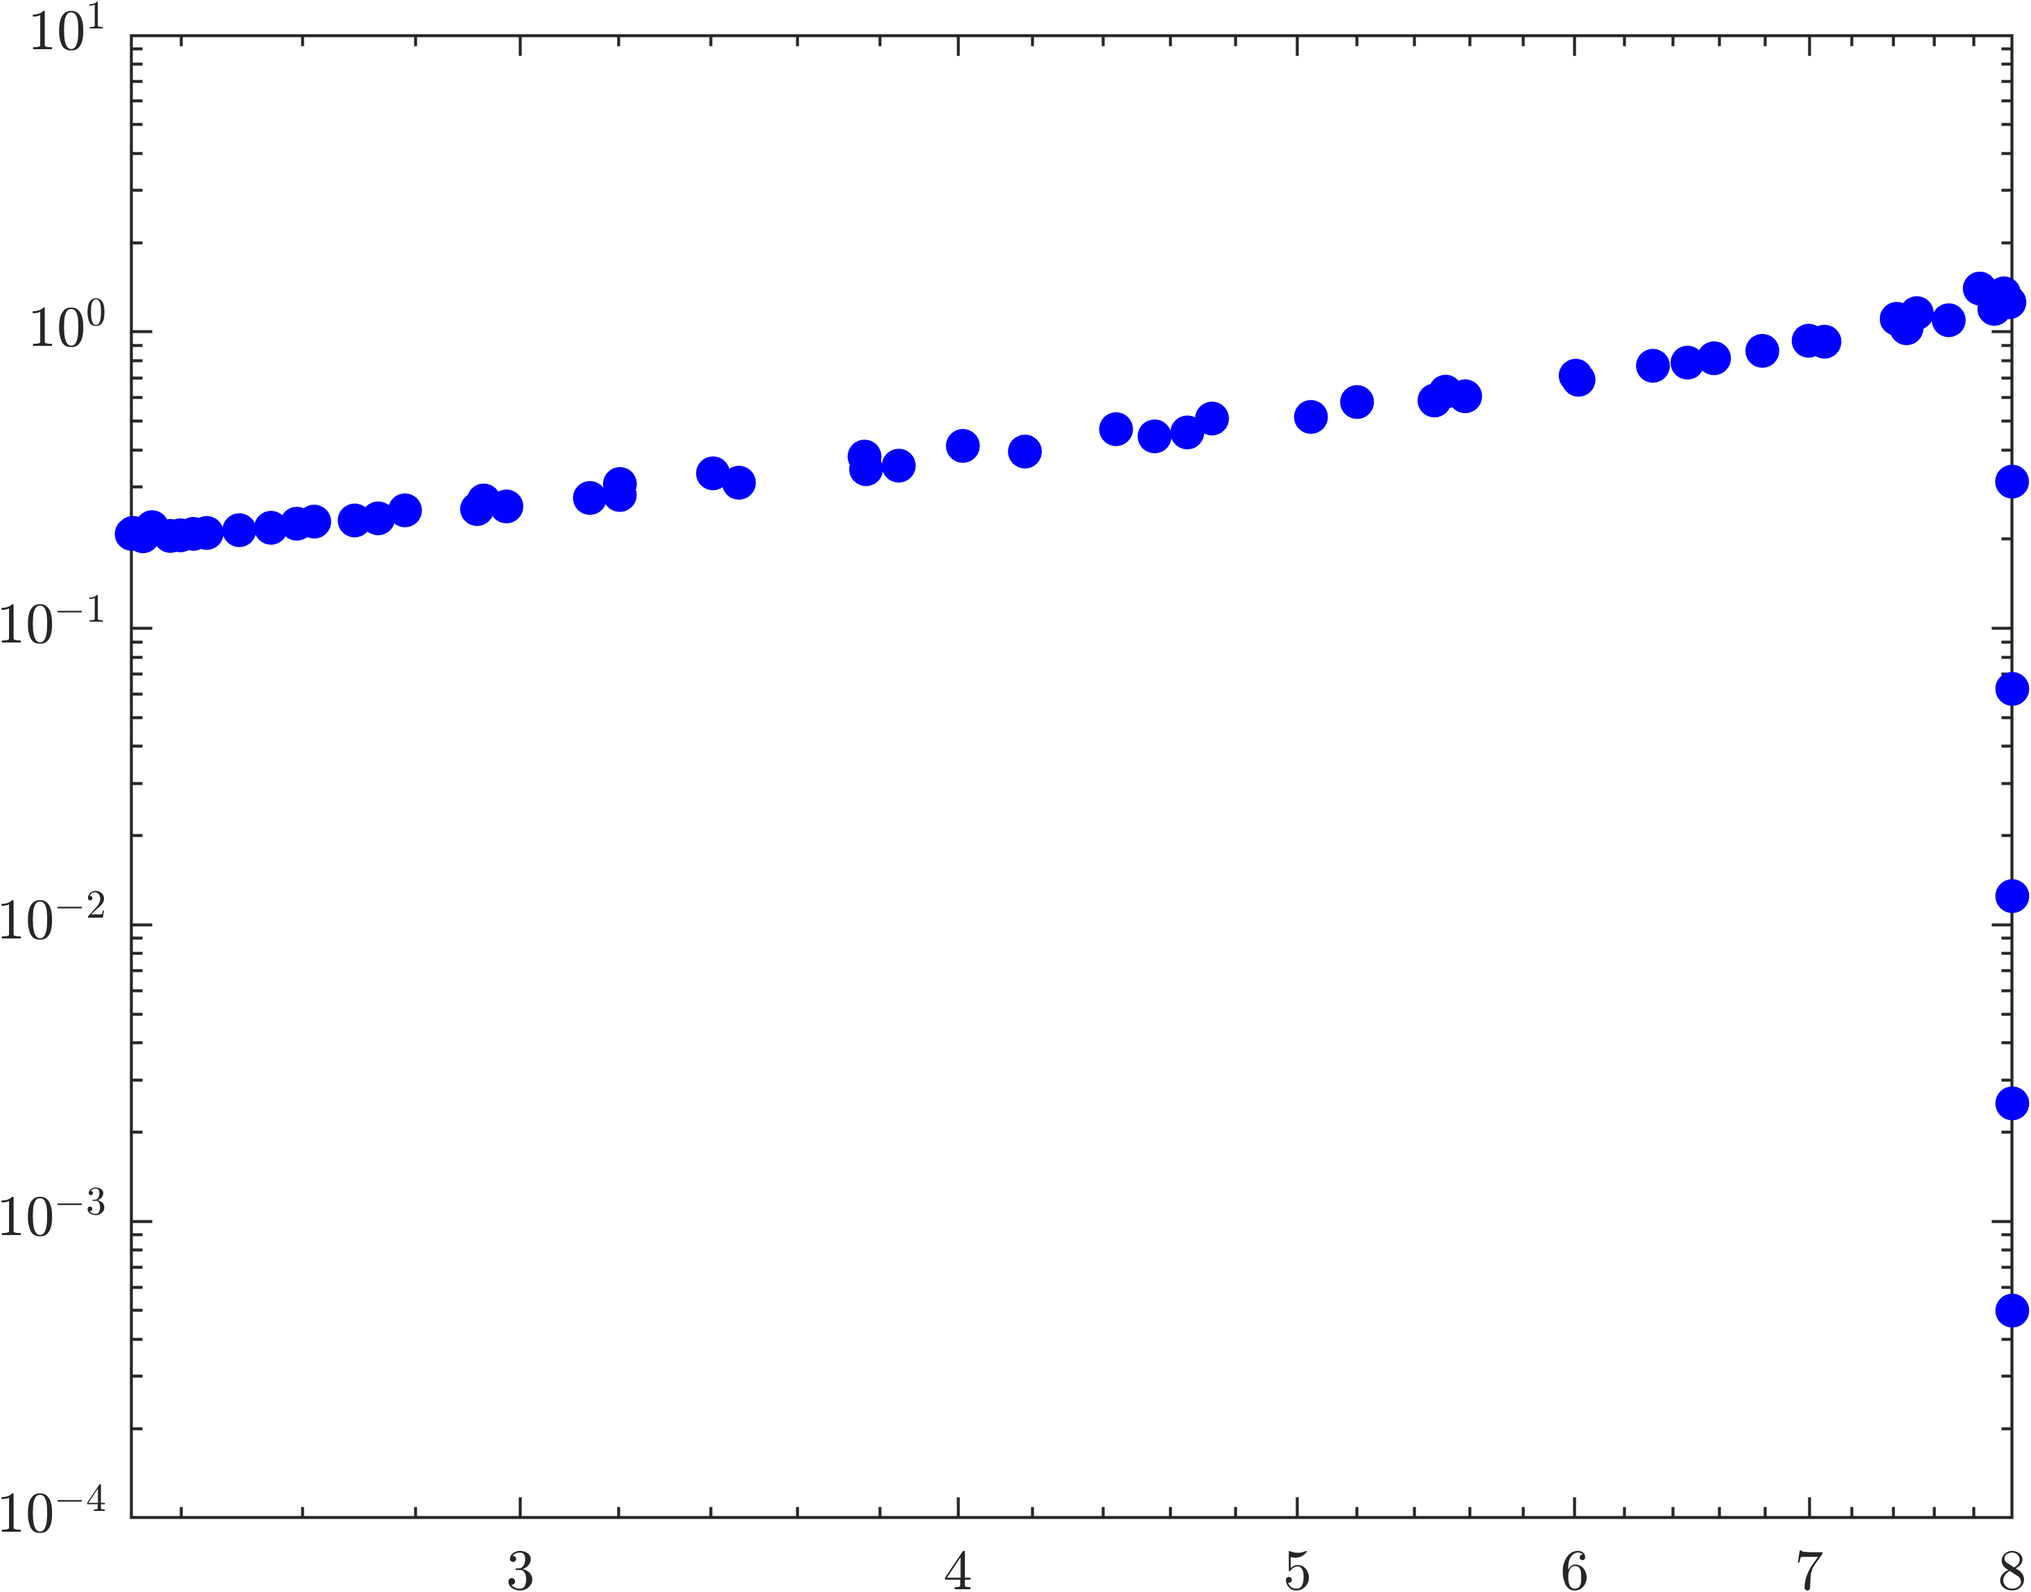
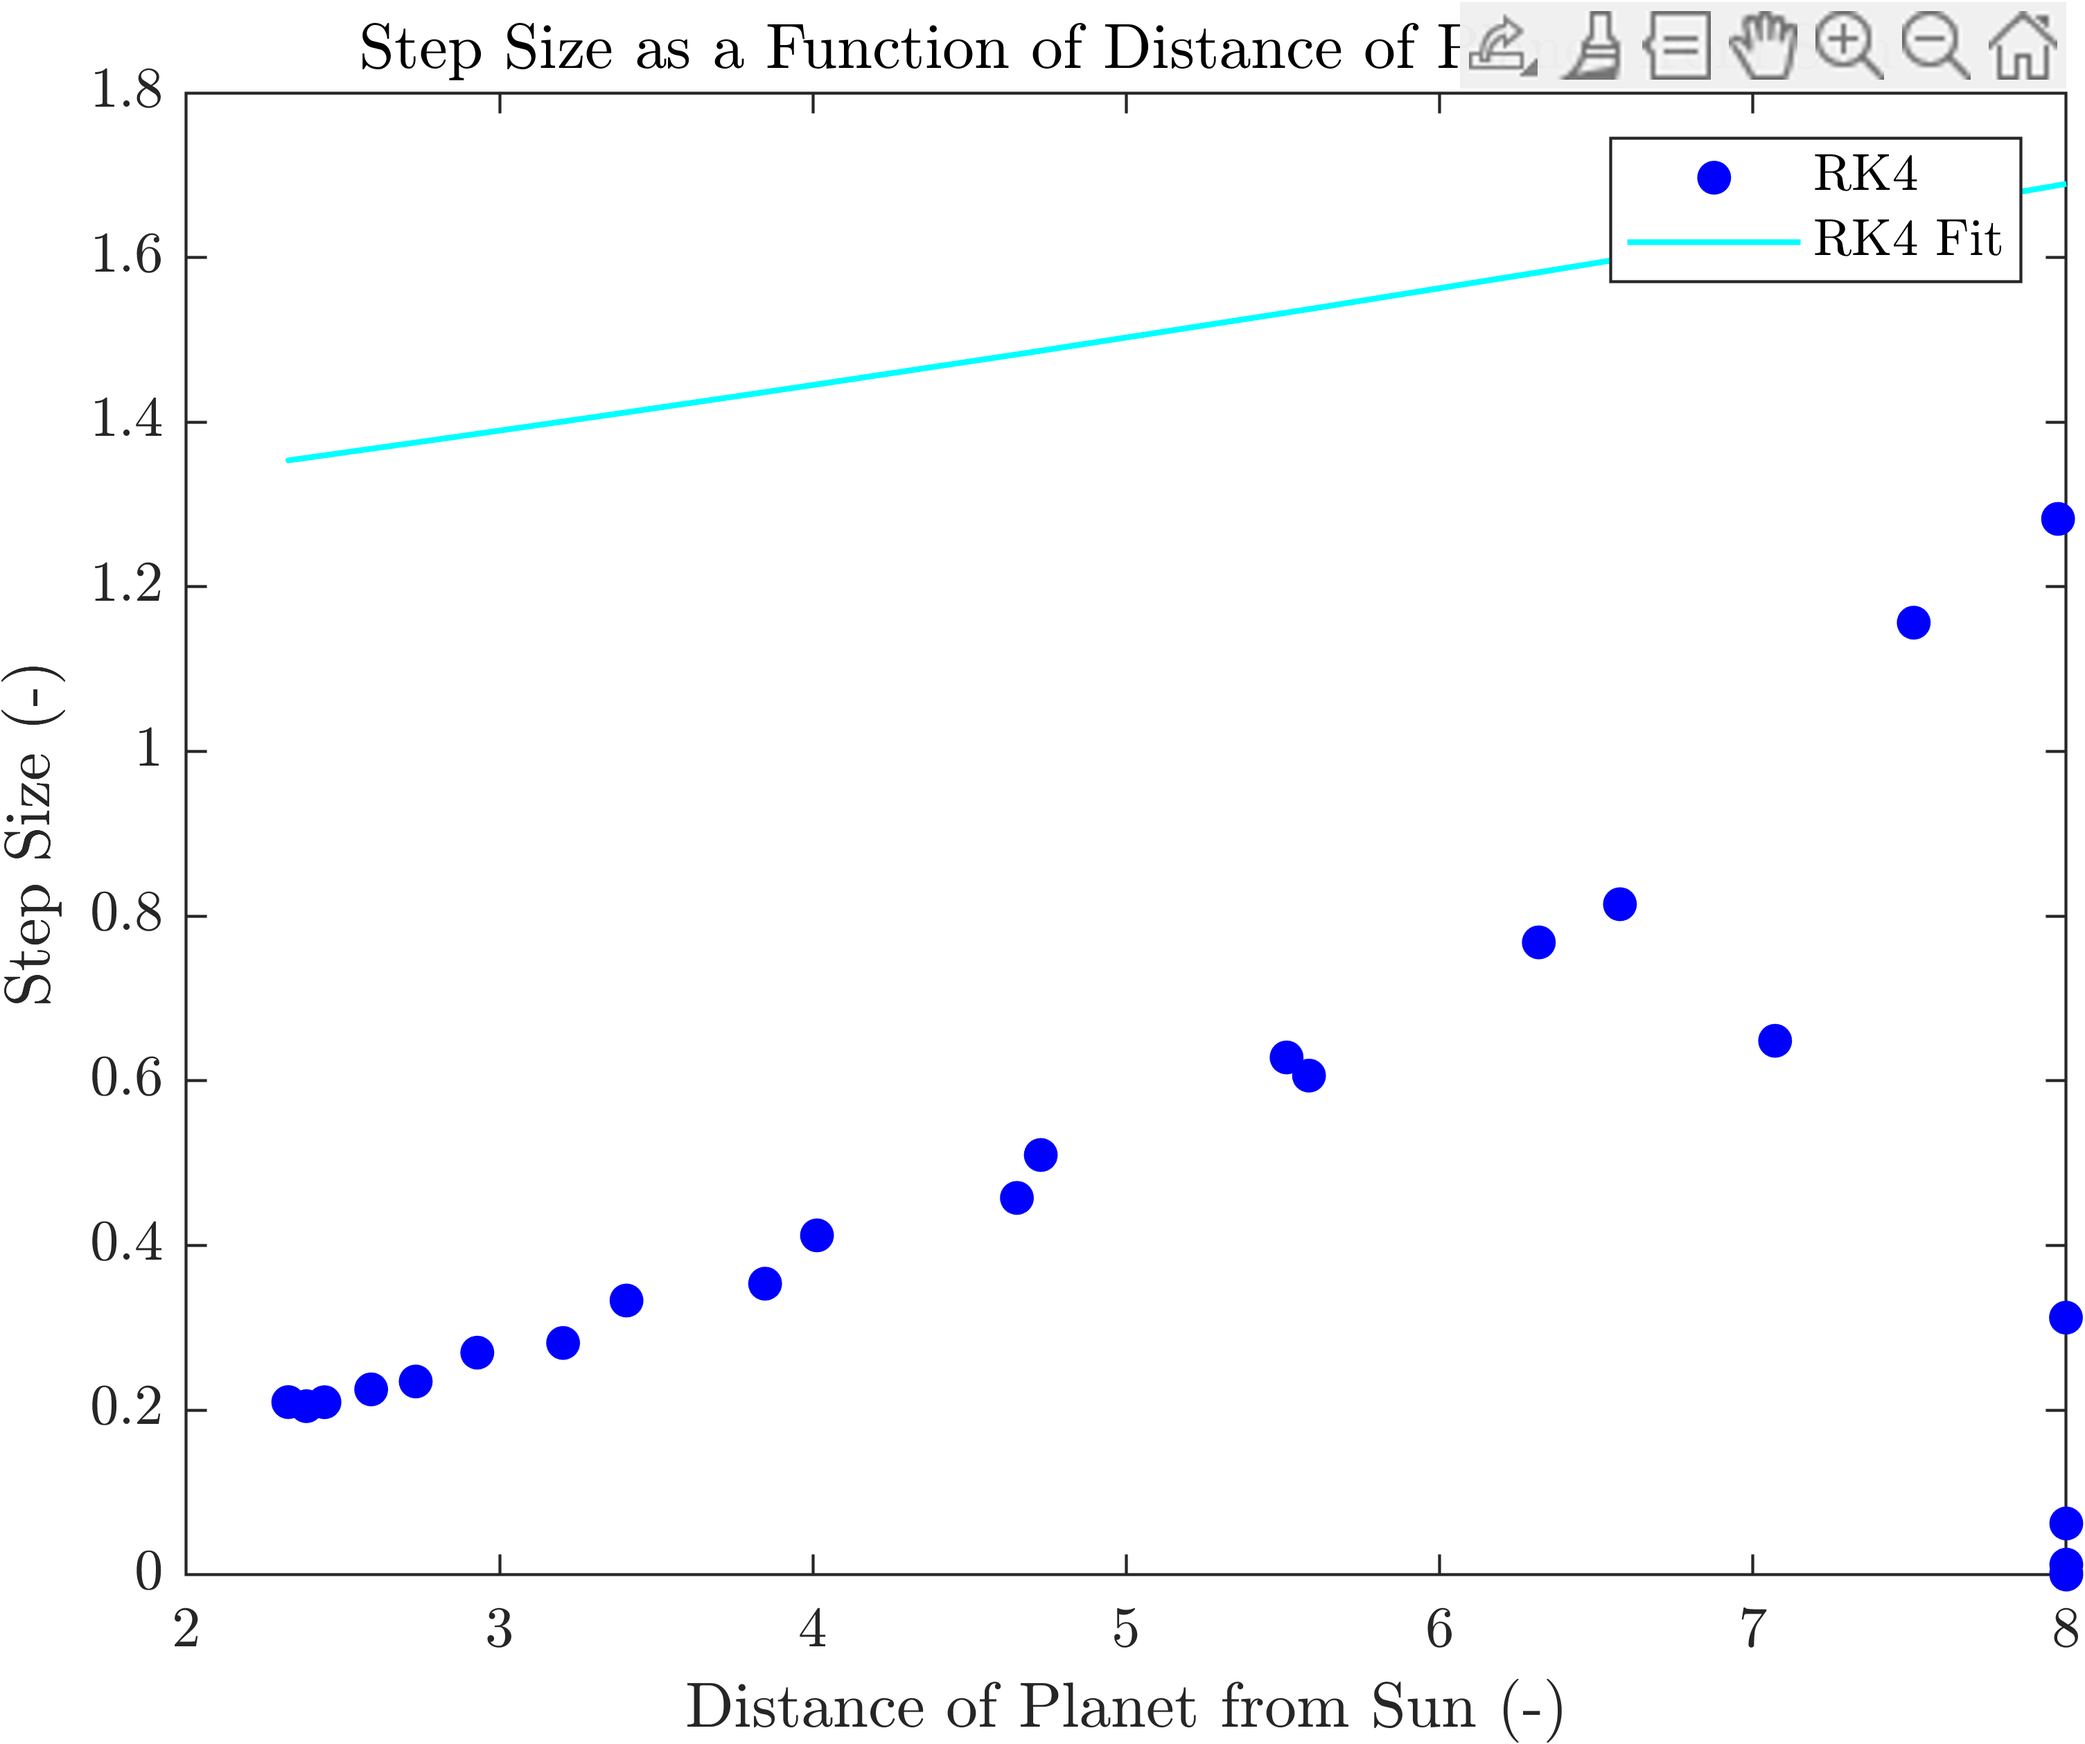
aw man

diff --git a/usage_example_orbit_scatter.m b/usage_example_orbit_scatter.m
@@ -57,7 +57,7 @@ DormandPrince.A = ...
         -2187/6784, 11/84, 0];
 
     V0 = [x0;y0;dxdt0;dydt0];
-    t_range = linspace(0,30,100);
+    t_range = [0,10];
     V_list = compute_planetary_motion(t_range,V0,orbit_params);
 
     h_ref=0.0005;
@@ -75,8 +75,10 @@ DormandPrince.A = ...
     % for n = 1:length(hs)
         % h = hs(n);
         [t_list,X_list,h_avg, num_evals, failed_steps_rate] = explicit_RK_variable_step_integration(G_rate,t_range,V0,h_ref,DormandPrince,p,error_desired);
+        
         h_list = diff(t_list);
 
+        X_list
         x_vals=X_list(:,1);
         y_vals=X_list(:,2);
         distance=sqrt(x_vals.^2+y_vals.^2);
@@ -85,10 +87,24 @@ DormandPrince.A = ...
         % distances(n) = distance;
 
     % end
-    distance
     h_list
+    distance
 
-    loglog(distance(1:59),h_list, "b.", MarkerSize=20);
+    % plot(t_range, V_list(:, 2), 'g'); hold on
+    % plot(t_list,X_list(:,2),'k.');
+    % hold off
+
+
+    plot(distance(1:(length(h_list))),h_list, "b.", MarkerSize=20); hold on;
+
+    coeffs = polyfit((distance(1:(length(h_list)))), (h_list), 1);
+    fit = exp(polyval(coeffs, (distance(1:(length(h_list))))));
+    plot(distance(1:(length(h_list))), fit, "c", LineWidth=1);
+
+    xlabel("Distance of Planet from Sun (-)")
+    ylabel("Step Size (-)")
+    title("Step Size as a Function of Distance of Planet from Sun")
+    legend("RK4", "RK4 Fit")
 
     myfig = gcf();
     exportgraphics(myfig , 'planetary_motion_scatter.png', 'Resolution', 600);
